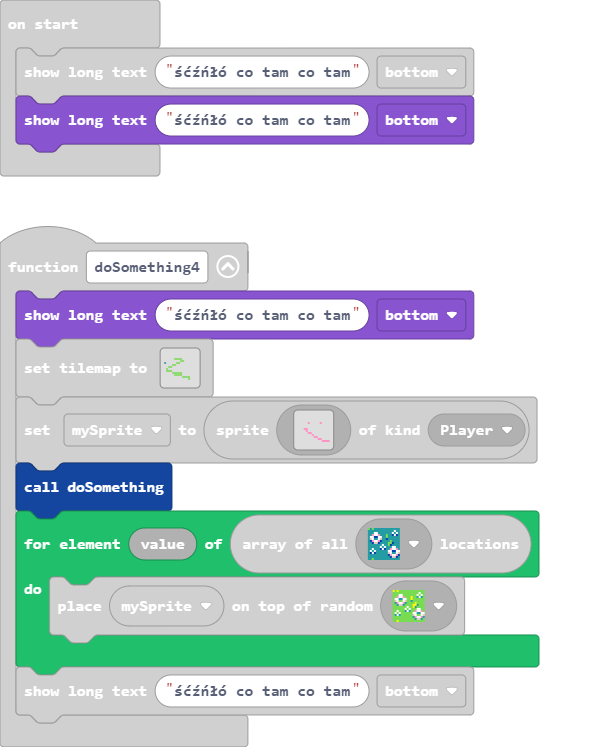
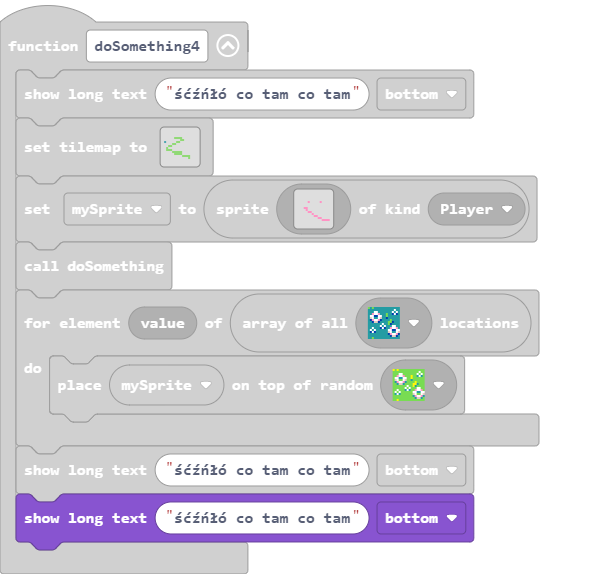
Update main.blocks, main.ts

diff --git a/main.ts b/main.ts
@@ -42,6 +42,7 @@ function doSomething4 () {
         tiles.placeOnRandomTile(mySprite, sprites.castle.tileGrass2)
     }
     game.showLongText("śćźńłó co tam co tam", DialogLayout.Bottom)
+    game.showLongText("śćźńłó co tam co tam", DialogLayout.Bottom)
 }
 let mySprite: Sprite = null
 game.showLongText("śćźńłó co tam co tam", DialogLayout.Bottom)
